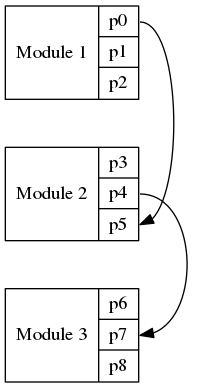
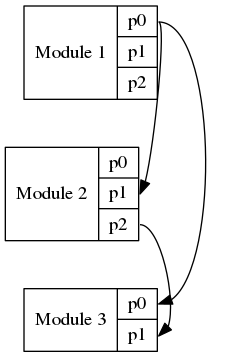
Graphviz network examples implemented.

Changed region(s): [[0.0, 0.0, 0.9231, 1.0], [0.0577, 0.4622, 0.3462, 0.5546], [0.8365, 0.5546, 0.8654, 0.5854]]

diff --git a/examples/qt/pan_zoom_image_controller.py b/examples/qt/pan_zoom_image_controller.py
@@ -1,0 +1,89 @@
+from PyQt4.QtGui import *
+from PyQt4.QtCore import *
+from pan_zoom_image_dialog import Ui_PanZoomImageDialog
+
+
+class PhotoViewer(QGraphicsView):
+    def __init__(self, parent):
+        super(PhotoViewer, self).__init__(parent)
+        self._zoom = 0
+        self._scene = QGraphicsScene(self)
+        self._photo = QGraphicsPixmapItem()
+        self._scene.addItem(self._photo)
+        self.setScene(self._scene)
+        self.setTransformationAnchor(QGraphicsView.AnchorUnderMouse)
+        self.setResizeAnchor(QGraphicsView.AnchorUnderMouse)
+        self.setVerticalScrollBarPolicy(Qt.ScrollBarAlwaysOff)
+        self.setHorizontalScrollBarPolicy(Qt.ScrollBarAlwaysOff)
+        self.setBackgroundBrush(QBrush(QColor(30, 30, 30)))
+        self.setFrameShape(QFrame.NoFrame)
+
+    def fitInView(self):
+        rect = QRectF(self._photo.pixmap().rect())
+        if not rect.isNull():
+            unity = self.transform().mapRect(QRectF(0, 0, 1, 1))
+            self.scale(1 / unity.width(), 1 / unity.height())
+            viewrect = self.viewport().rect()
+            scenerect = self.transform().mapRect(rect)
+            factor = min(viewrect.width() / scenerect.width(),
+                         viewrect.height() / scenerect.height())
+            self.scale(factor, factor)
+            self.centerOn(rect.center())
+            self._zoom = 0
+
+    def setPhoto(self, pixmap=None):
+        self._zoom = 0
+        if pixmap and not pixmap.isNull():
+            self.setDragMode(QGraphicsView.ScrollHandDrag)
+            self._photo.setPixmap(pixmap)
+            self.fitInView()
+        else:
+            self.setDragMode(QGraphicsView.NoDrag)
+            self._photo.setPixmap(QPixmap())
+
+    def zoomFactor(self):
+        return self._zoom
+
+    def wheelEvent(self, event):
+        if not self._photo.pixmap().isNull():
+            if event.delta() > 0:
+                factor = 1.25
+                self._zoom += 1
+            else:
+                factor = 0.8
+                self._zoom -= 1
+            if self._zoom > 0:
+                self.scale(factor, factor)
+            elif self._zoom == 0:
+                self.fitInView()
+            else:
+                self._zoom = 0
+
+
+class PanZoomImageController(QDialog):
+    def __init__(self):
+        QDialog.__init__(self)
+
+        self.ui = Ui_PanZoomImageDialog()
+        self.ui.setupUi(self)
+
+        self.connect(self.ui.chooseImageButton, SIGNAL("clicked()"), self.chooseimage_action)
+
+    def chooseimage_action(self):
+        print("Show Image")
+        imagefile = QFileDialog.getOpenFileName(self)
+        pixmap = QPixmap()
+        pixmap.load(imagefile)
+        scrollArea = self.ui.scrollArea
+
+        panZoomView = PhotoViewer(scrollArea)
+        scrollArea.setWidget(panZoomView)
+
+        panZoomView.setPhoto(pixmap)
+
+if __name__ == "__main__":
+    import sys
+    app = QApplication(sys.argv)
+    w = PanZoomImageController()
+    w.show()
+    sys.exit(app.exec_())

diff --git a/examples/qt/pan_zoom_image_dialog.py b/examples/qt/pan_zoom_image_dialog.py
@@ -1,0 +1,59 @@
+# -*- coding: utf-8 -*-
+
+# Form implementation generated from reading ui file 'pan_zoom_image_dialog.ui'
+#
+# Created by: PyQt4 UI code generator 4.11.4
+#
+# WARNING! All changes made in this file will be lost!
+
+from PyQt4 import QtCore, QtGui
+
+try:
+    _fromUtf8 = QtCore.QString.fromUtf8
+except AttributeError:
+    def _fromUtf8(s):
+        return s
+
+try:
+    _encoding = QtGui.QApplication.UnicodeUTF8
+    def _translate(context, text, disambig):
+        return QtGui.QApplication.translate(context, text, disambig, _encoding)
+except AttributeError:
+    def _translate(context, text, disambig):
+        return QtGui.QApplication.translate(context, text, disambig)
+
+class Ui_PanZoomImageDialog(object):
+    def setupUi(self, PanZoomImageDialog):
+        PanZoomImageDialog.setObjectName(_fromUtf8("PanZoomImageDialog"))
+        PanZoomImageDialog.resize(600, 400)
+        self.gridLayout = QtGui.QGridLayout(PanZoomImageDialog)
+        self.gridLayout.setObjectName(_fromUtf8("gridLayout"))
+        self.scrollArea = QtGui.QScrollArea(PanZoomImageDialog)
+        self.scrollArea.setWidgetResizable(True)
+        self.scrollArea.setObjectName(_fromUtf8("scrollArea"))
+        self.scrollAreaWidgetContents = QtGui.QWidget()
+        self.scrollAreaWidgetContents.setGeometry(QtCore.QRect(0, 0, 580, 347))
+        self.scrollAreaWidgetContents.setObjectName(_fromUtf8("scrollAreaWidgetContents"))
+        self.scrollArea.setWidget(self.scrollAreaWidgetContents)
+        self.gridLayout.addWidget(self.scrollArea, 0, 0, 1, 1)
+        self.chooseImageButton = QtGui.QPushButton(PanZoomImageDialog)
+        self.chooseImageButton.setObjectName(_fromUtf8("chooseImageButton"))
+        self.gridLayout.addWidget(self.chooseImageButton, 1, 0, 1, 1)
+
+        self.retranslateUi(PanZoomImageDialog)
+        QtCore.QMetaObject.connectSlotsByName(PanZoomImageDialog)
+
+    def retranslateUi(self, PanZoomImageDialog):
+        PanZoomImageDialog.setWindowTitle(_translate("PanZoomImageDialog", "Dialog", None))
+        self.chooseImageButton.setText(_translate("PanZoomImageDialog", "Choose Image", None))
+
+
+if __name__ == "__main__":
+    import sys
+    app = QtGui.QApplication(sys.argv)
+    PanZoomImageDialog = QtGui.QDialog()
+    ui = Ui_PanZoomImageDialog()
+    ui.setupUi(PanZoomImageDialog)
+    PanZoomImageDialog.show()
+    sys.exit(app.exec_())
+

diff --git a/examples/graphviz/grapvizmodnet.py b/examples/graphviz/grapvizmodnet.py
@@ -1,0 +1,73 @@
+from pygraphviz import *
+
+
+class Module:
+    def __init__(self,name,ports):
+        self.name = name
+        self.ports = ports
+
+
+class Connect:
+    def __init__(self,source,target):
+        self.source = source
+        self.target = target
+
+
+class Network:
+    def __init__(self,modules,connects):
+        self.modules = modules
+        self.connects = connects
+
+def makegraph(net):
+    g = AGraph(directed=True,strict=False)
+    g.node_attr['shape'] = "record"
+    modules = net.modules
+    for m in modules:
+        mname = m.name
+        nlabel = mname
+        mports = m.ports
+        if len(mports)>0:
+            nlabel += '|{'
+            for i in range(0,len(mports)):
+                p = mports[i]
+                portlabel = '<'+mname+'.'+p+'>'+p
+                nlabel += portlabel
+                if i<(len(mports)-1):
+                    nlabel += '|'
+                else:
+                    nlabel += "}"
+        print(mname+':'+nlabel)
+        g.add_node(mname, label=nlabel)
+        connects = net.connects
+    for c in connects:
+        tail = c[0]
+        head = c[1]
+        mtail = c[0][0]
+        ptail = c[0][1]
+        mhead = c[1][0]
+        phead = c[1][1]
+        tport = mtail+'.'+ptail
+        hport = mhead+'.'+phead
+        print(mtail+':'+tport+'->'+mhead+':'+hport)
+        g.add_edge(mtail, mhead, tailport=tport+':e', headport=hport+':e')
+    return g
+
+
+def main():
+    m1 = Module('A',['p1','p2'])
+    m2 = Module('B',['p1','p2'])
+    c1 = [('A','p1'),('B','p2')]
+    c2 = [('B','p1'),('A','p2')]
+    net = Network([m1,m2],[c1,c2])
+    # connects = net.connects
+    # for c in connects:
+    #     print(c[0][0]+'.'+c[0][1]+'->'+c[1][0]+'.'+c[1][1])
+    g = makegraph(net)
+    print(g.to_string())
+    g.layout(prog="dot")
+    g.draw("modulegraph.png")
+
+
+if __name__=='__main__':
+    main()
+

diff --git a/examples/graphviz/graphvizrecs2.py b/examples/graphviz/graphvizrecs2.py
@@ -4,12 +4,13 @@ from pygraphviz import *
 g = AGraph(directed=True)
 
 g.node_attr['shape']="record"
-g.add_node('module1',label="Module 1|{<f0>p0|<f1>p1|<f2>p2}")
-g.add_node('module2',label="Module 2|{<f3>p3|<f4>p4|<f5>p5}")
-g.add_node('module3',label="Module 3|{<f6>p6|<f7>p7|<f8>p8}")
+g.add_node('module1',label="Module 1|{<module1.p0>p0|<module1.p1>p1|<module1.p2>p2}")
+g.add_node('module2',label="Module 2|{<module2.p0>p0|<module2.p1>p1|<module2.p2>p2}")
+g.add_node('module3',label="Module 3|{<module3.p0>p0|<module3.p1>p1}")
 
-g.add_edge('module1','module2',tailport='f0',headport='f5')
-g.add_edge('module2','module3',tailport='f4',headport='f7')
+g.add_edge('module1','module2',tailport='module1.p0:e',headport='module2.p1:e')
+g.add_edge('module2','module3',tailport='module2.p2:e',headport='module3.p1:e')
+g.add_edge('module1','module3',tailport='module1.p0:e',headport='module3.p0:e')
 
 
 g.layout(prog="dot")

diff --git a/examples/qt/image_controller.py b/examples/qt/image_controller.py
@@ -2,6 +2,7 @@ from PyQt4.QtGui import *
 from PyQt4.QtCore import *
 from image_dialog import Ui_ImageDialog
 
+
 class ImageController(QDialog):
     def __init__(self):
         QDialog.__init__(self)
